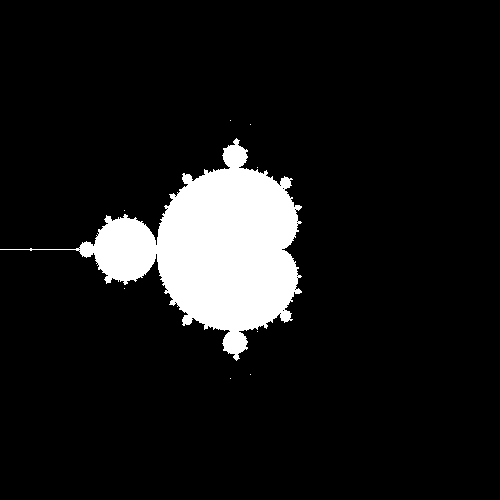
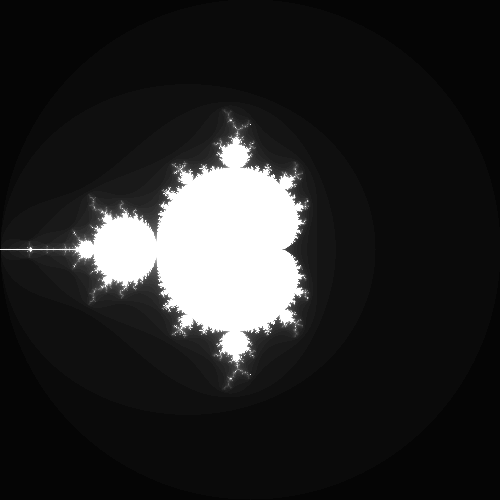
La fractale est terminee
PROCEDURE

Changed region(s): [[0.0, 0.21, 0.66, 0.81]]

diff --git a/src/main_lison.cpp b/src/main_lison.cpp
@@ -406,7 +406,7 @@ void main_lison()
     //Exo 14 : Niv 3 : Fractale de Mandelbrot
 {
     sil::Image image {500, 500};
-    int maxIter {300};
+    int maxIter {50};
     for(int i {0}; i<image.width(); i++){
         for(int j {0}; j<image.height(); j++){
             float x {(i-image.width()/2.0f)*4.0f/image.width()};
@@ -419,9 +419,16 @@ void main_lison()
                 iter++;
                 image.pixel(i, j) = glm::vec3(1.f);
             }
-            if(std::abs(z)>2){
+            if(iter>maxIter){
                 image.pixel(i, j) = glm::vec3(0.f);
             }
+            else {
+                image.pixel(i, j) = glm::vec3(0.f + iter*0.02f);
+            }
+
+            // if(std::abs(z)>2){
+            //     image.pixel(i, j) = glm::vec3(0.f+i*0.02f);
+            // }
         }
     }
     image.save("output_l/fractale_mandelbrot.png");
